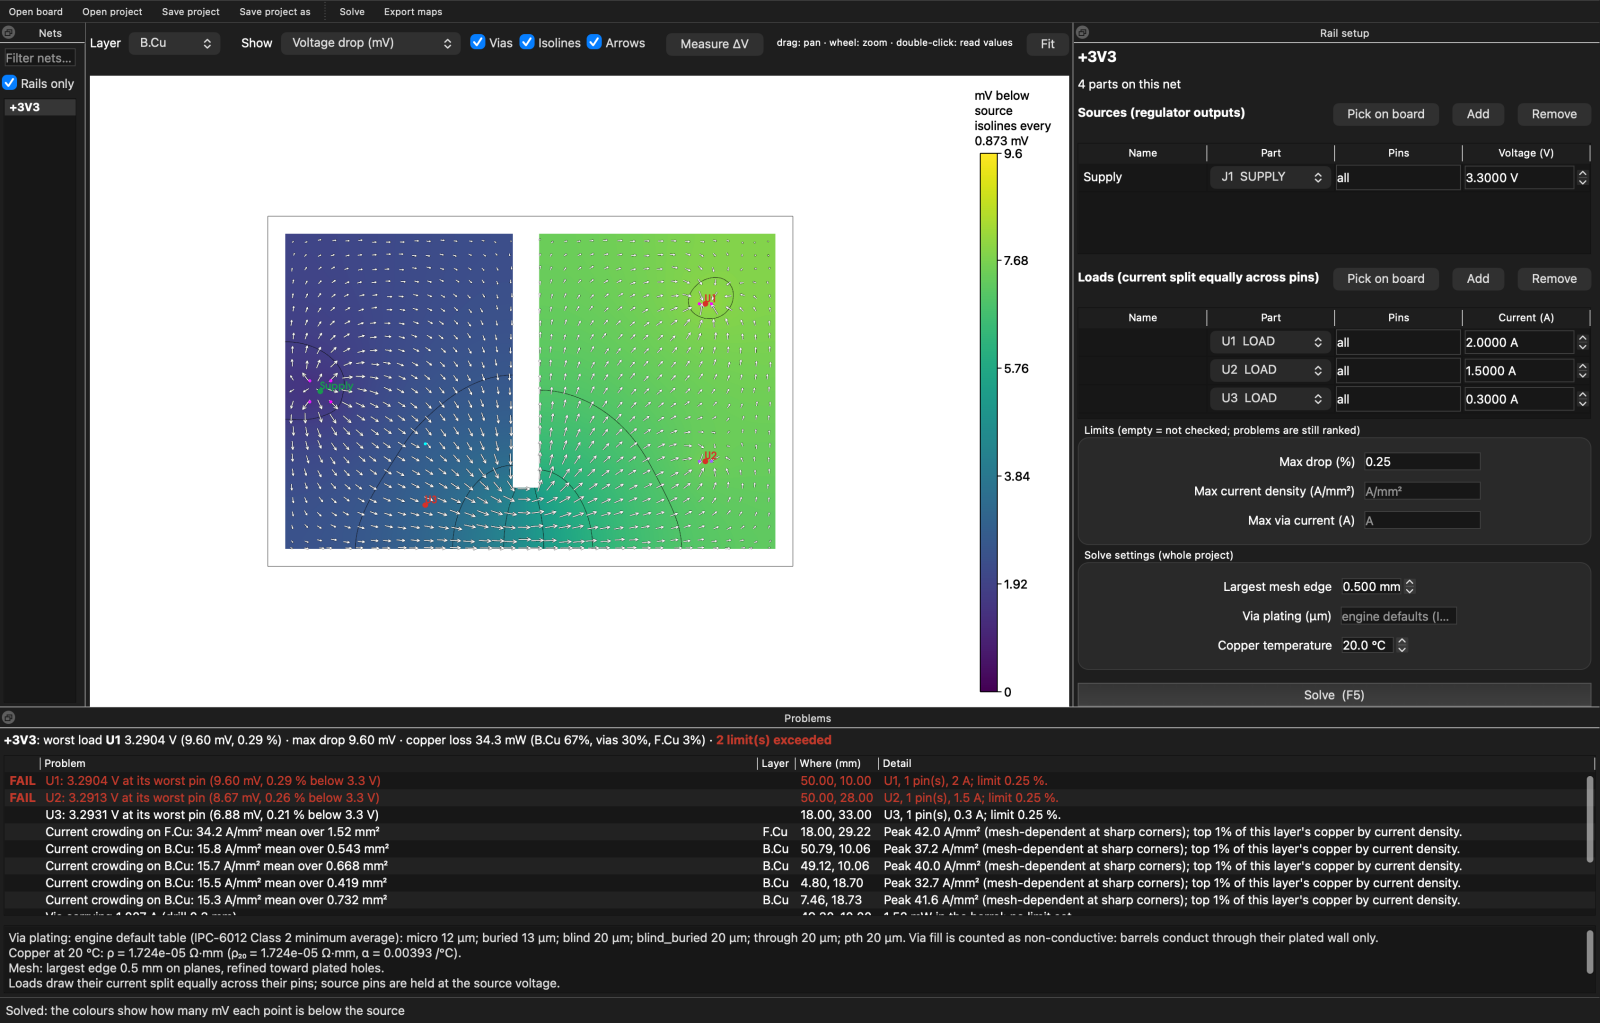
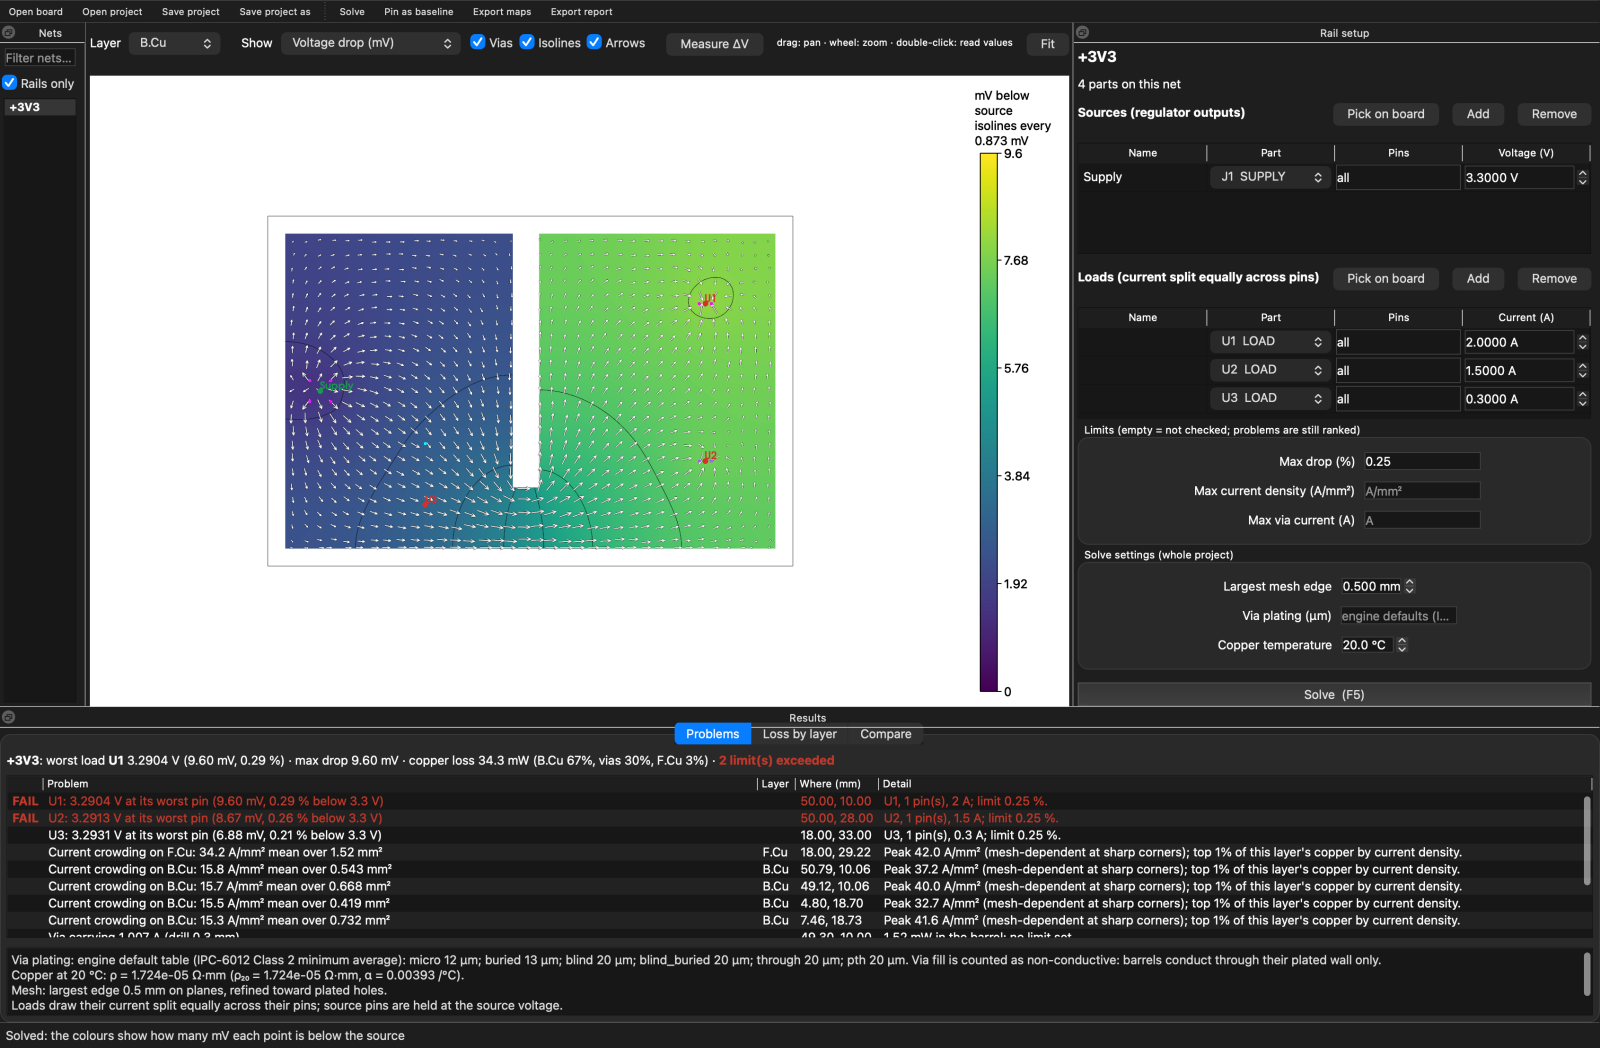
docs: README and screenshots for the Results tabs, comparison and report export

diff --git a/README.md b/README.md
@@ -125,9 +125,9 @@ then point B. The status bar shows ΔV A→B and both voltages. Press **Esc** to
   <img src="docs/images/guide-6-measure.png" alt="Measuring ΔV between the source pad and U1's pad: the status bar shows 9.6 mV" width="800">
 </p>
 
-### 6. Read the Problems panel
+### 6. Read the results
 
-The panel at the bottom lists, in order:
+The *Results* panel at the bottom has three tabs. **Problems** lists, in order:
 
 - every load, with the voltage it gets;
 - the most crowded spots;
@@ -143,6 +143,16 @@ listed: via plating, copper temperature and mesh size.
 
 > The two FAIL rows come from the demo project's own limit, a 0.25 % maximum drop, which is
 > deliberately tight. Coppernicus has no built-in thresholds.
+
+**Loss by layer** draws the copper loss of each layer as a bar chart.
+
+**Compare** shows what a change does. Press **Pin as baseline** (Ctrl+B), change something (a
+current, the via plating, or the board itself in KiCad), and solve again. The tab lists the
+change in drop of every load and in loss per layer. *Show → Δ drop vs baseline* paints where
+the drop grew (red) or shrank.
+
+**Export report** (Ctrl+R) writes the offline HTML report described under
+[Command line](#command-line), to send to someone who does not have Coppernicus.
 
 Finally, **Save project**. It writes a small `*.coppernicus.yml` file with the board path, the
 rails, their sources, loads and limits. Open it again later, or use it from the command line.
@@ -256,7 +266,9 @@ rails:
 | AI-agent interface: MCP server and `--json` on the CLI ([guide](docs/agents.md)) | ✅ first version (registration in a real Claude host not yet tried) |
 | Offline interactive HTML report (`solve --html`, MCP `report` tool) | ✅ (tested in Chromium and Chrome; Safari and Firefox not yet) |
 | GitHub Action for KiCad repositories | ⏳ next |
-| Before/after comparison of two solves, loss-by-layer chart | 🔄 in progress |
+| Before/after comparison: "Pin as baseline", Compare tab (per-load, total and per-layer deltas, settings that changed), "Δ drop vs baseline" map | ✅ |
+| Copper loss by layer as a chart (baseline beside current) | ✅ |
+| Offline HTML report exported from the app (Export report…, Ctrl+R) | ✅ |
 | Readout while hovering (today: double-click) | ⏳ |
 | Power tree with ground return, board temperature | ⏳ (KiPI's engine has both) |
 | AC impedance with decoupling capacitors, DC-DC ripple, tolerance budget | ⏳ (KiPI's engine has them) |
